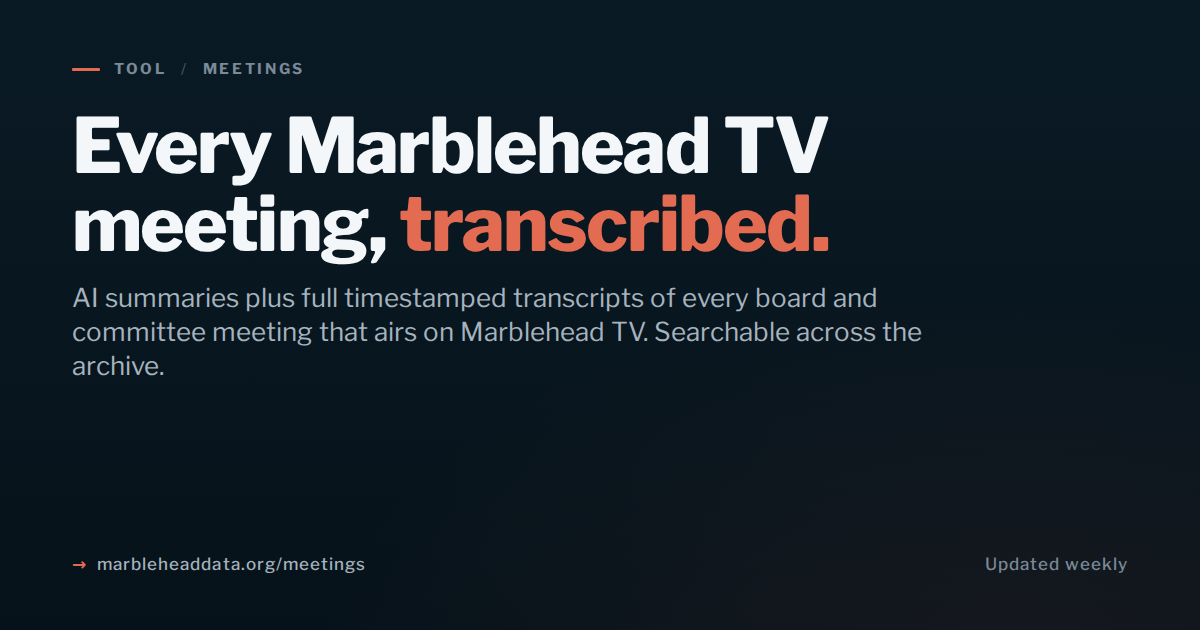
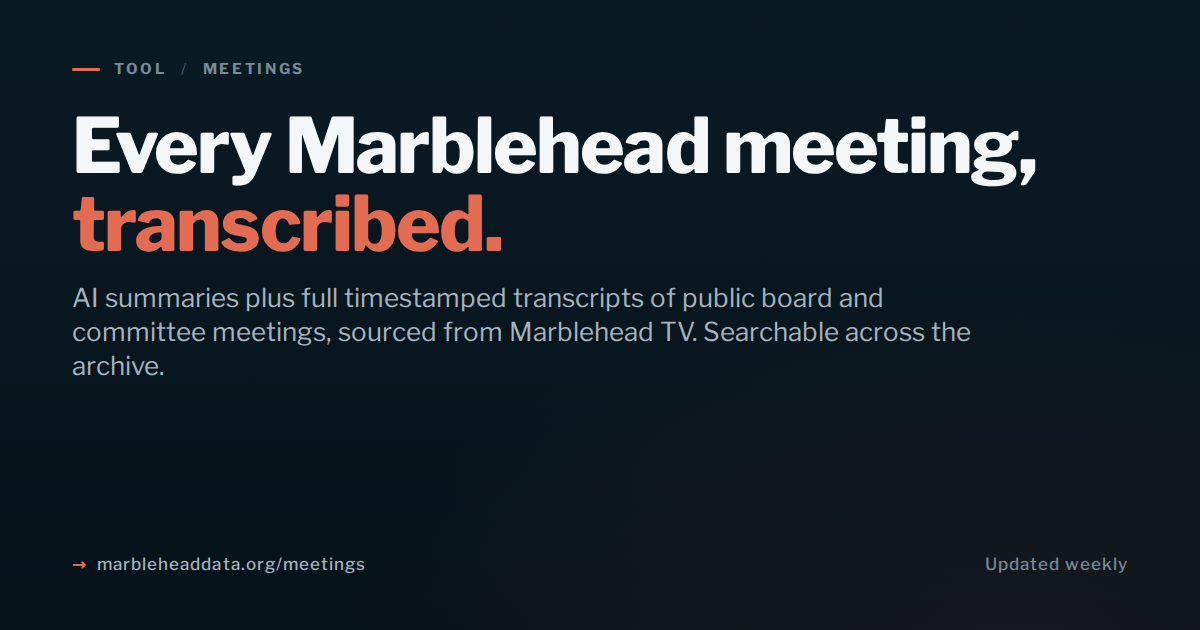
meetings: 'Every Marblehead meeting, transcribed.'
Drop the 'TV' qualifier from the headline per direct feedback.
'Marblehead TV' stays in the subhead as the source attribution, so
the scope is still honest, but the headline reads cleaner without
the broadcast-network noun in the middle.

Changed region(s): [[0.0617, 0.3016, 0.7092, 0.4222], [0.2467, 0.4524, 0.8325, 0.5429], [0.5858, 0.181, 0.8633, 0.3016]]

diff --git a/meetings.html b/meetings.html
@@ -5,8 +5,8 @@ permalink: /meetings/
 body_class: transcripts-page
 hide_read_time: true
 description: AI-generated transcripts and summaries of public board and committee meetings, sourced from MHTV.
-og_title: "Every Marblehead TV meeting, transcribed"
-og_description: "AI summaries plus full timestamped transcripts of every board and committee meeting that airs on Marblehead TV. Searchable across the archive."
+og_title: "Every Marblehead meeting, transcribed"
+og_description: "AI summaries plus full timestamped transcripts of public board and committee meetings, sourced from Marblehead TV. Searchable across the archive."
 og_image: /assets/og/meetings.png
 ---
 

diff --git a/og-cards/meetings.html b/og-cards/meetings.html
@@ -14,8 +14,8 @@
     </header>
 
     <div>
-      <h1 class="card-headline">Every Marblehead TV meeting, <em>transcribed.</em></h1>
-      <p class="card-subhead">AI summaries plus full timestamped transcripts of every board and committee meeting that airs on Marblehead TV. Searchable across the archive.</p>
+      <h1 class="card-headline">Every Marblehead meeting, <em>transcribed.</em></h1>
+      <p class="card-subhead">AI summaries plus full timestamped transcripts of public board and committee meetings, sourced from Marblehead TV. Searchable across the archive.</p>
     </div>
 
     <footer class="card-foot">
